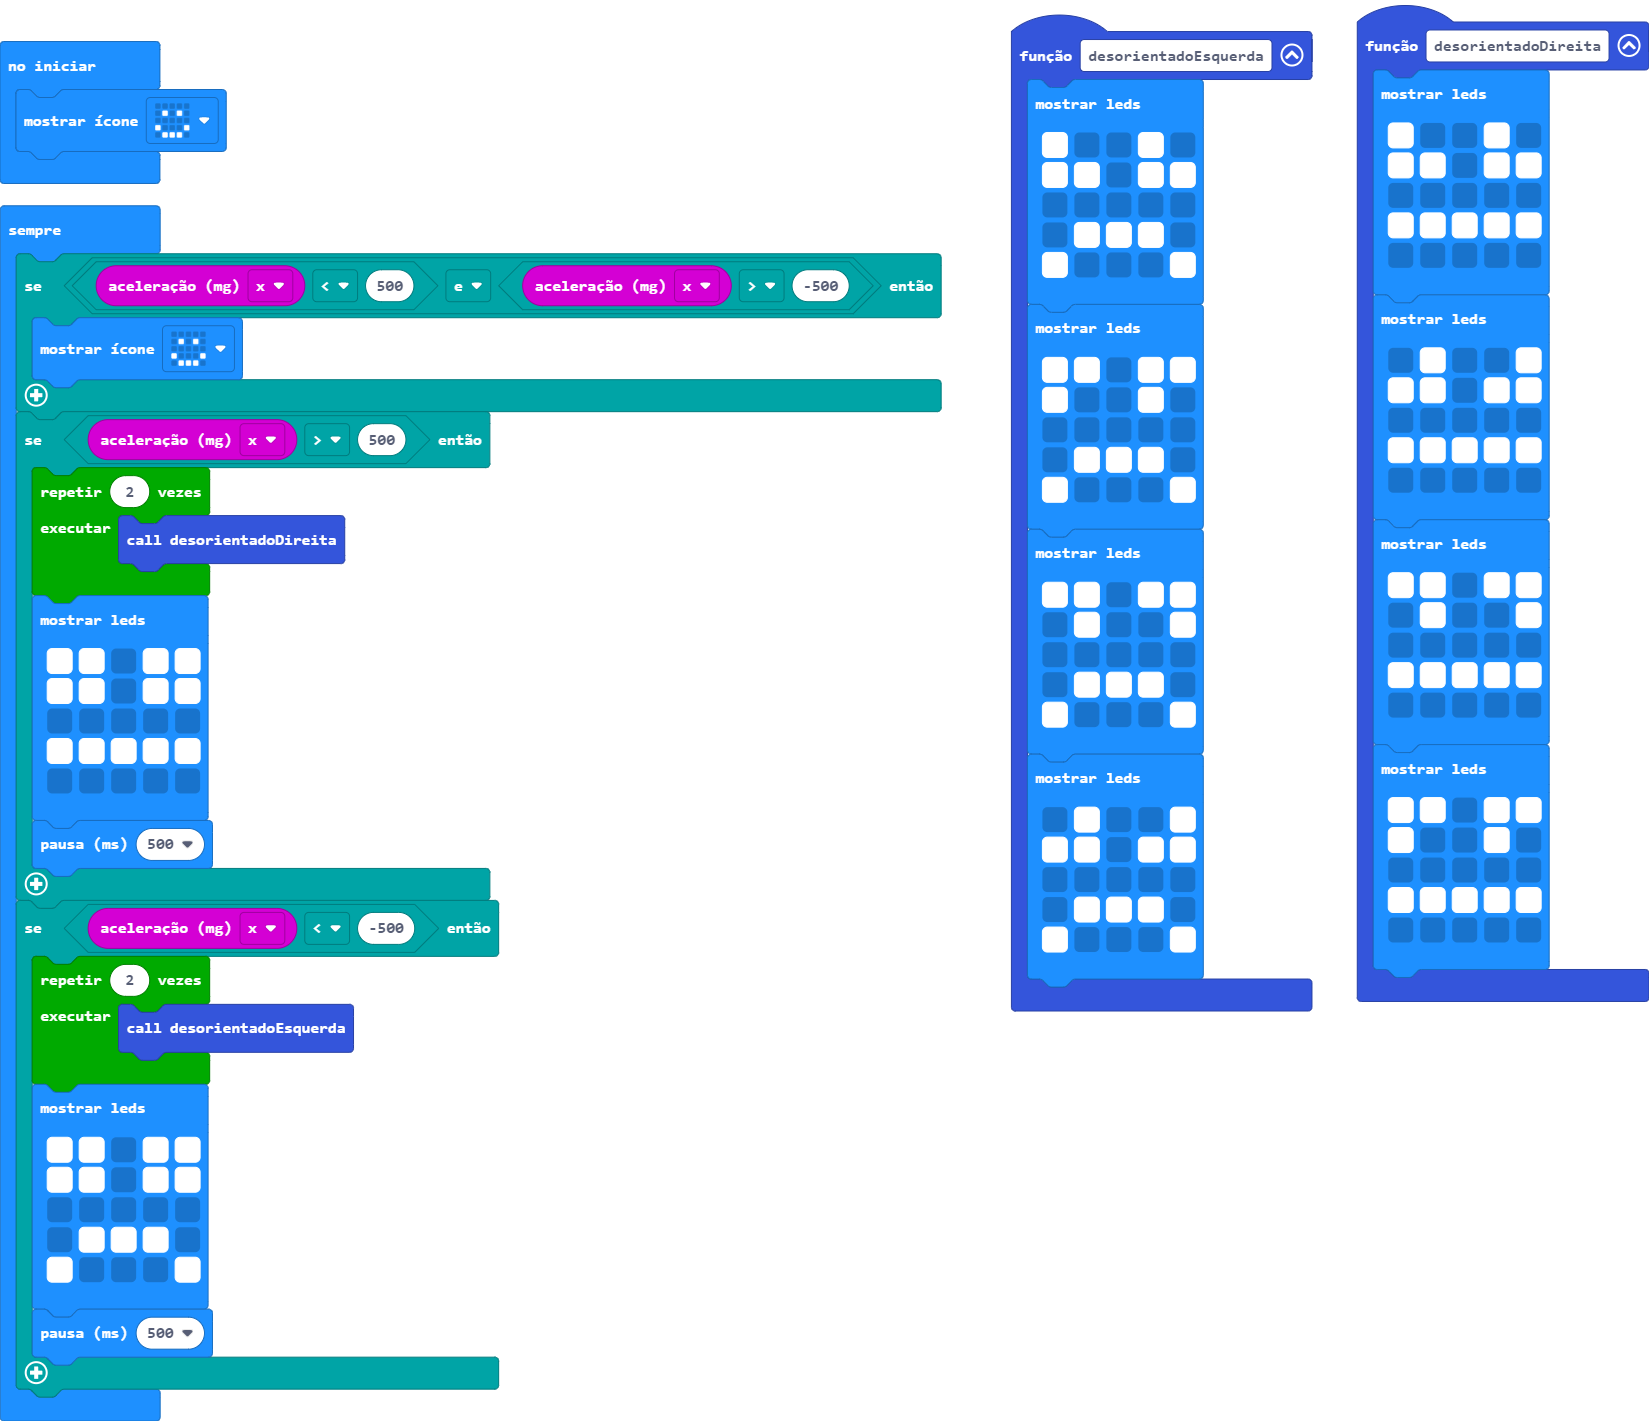
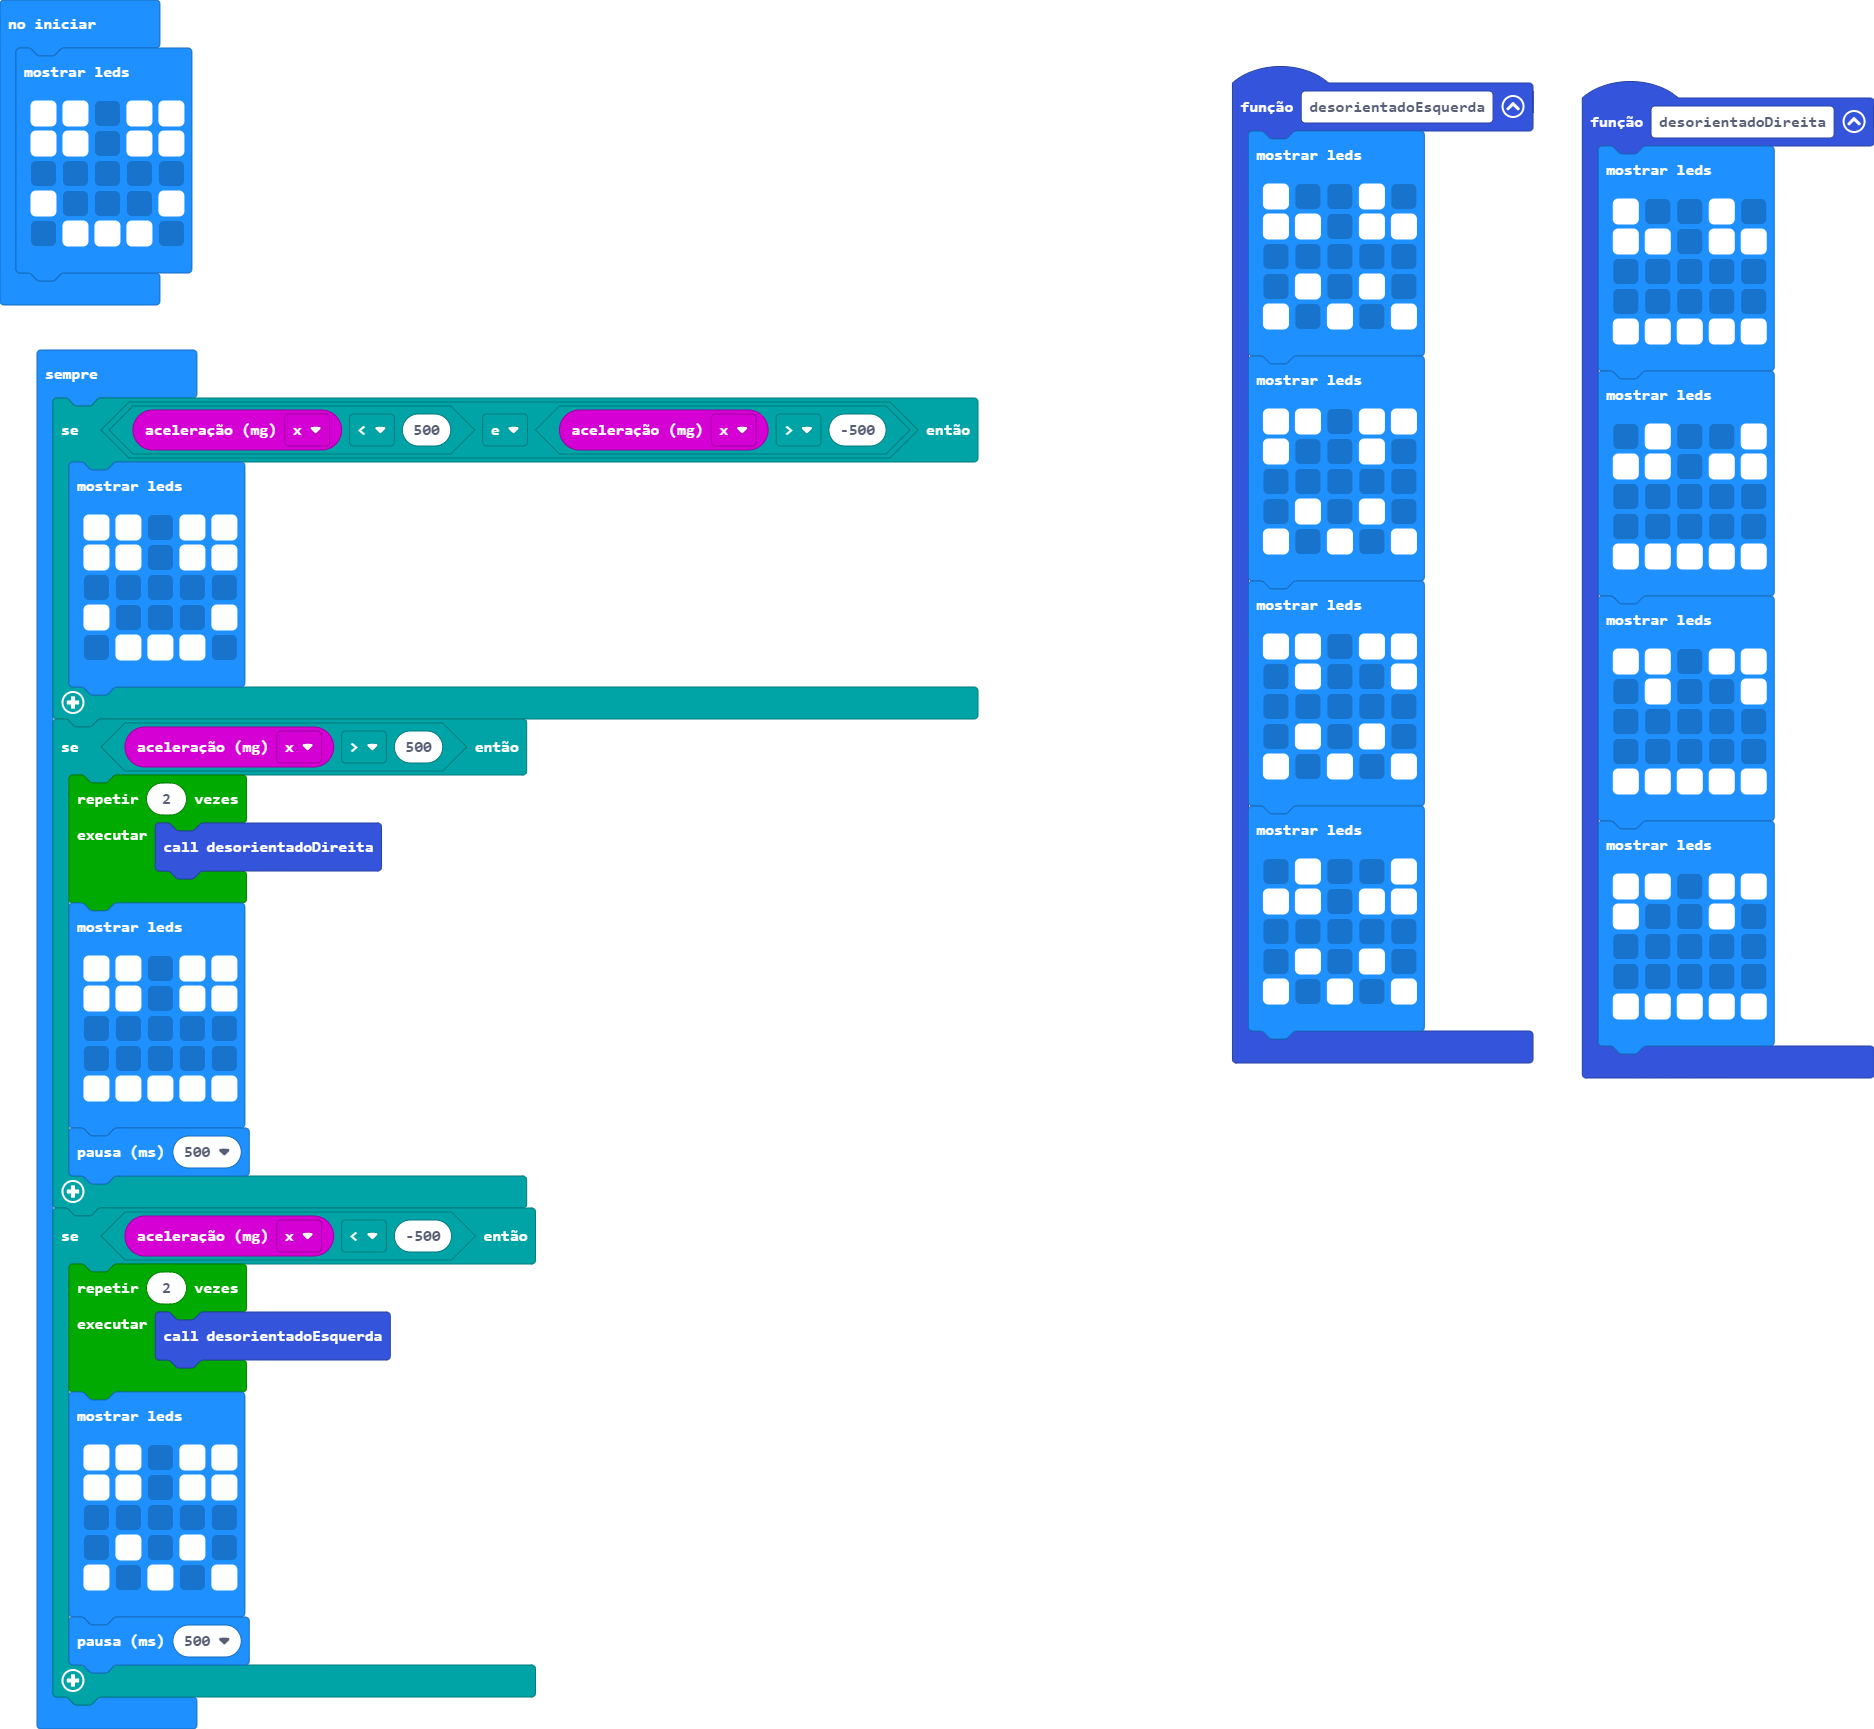
Update main.blocks, main.ts

diff --git a/main.ts b/main.ts
@@ -3,29 +3,29 @@ function desorientadoEsquerda () {
         # . . # .
         # # . # #
         . . . . .
-        . # # # .
-        # . . . #
+        . # . # .
+        # . # . #
         `)
     basic.showLeds(`
         # # . # #
         # . . # .
         . . . . .
-        . # # # .
-        # . . . #
+        . # . # .
+        # . # . #
         `)
     basic.showLeds(`
         # # . # #
         . # . . #
         . . . . .
-        . # # # .
-        # . . . #
+        . # . # .
+        # . # . #
         `)
     basic.showLeds(`
         . # . . #
         # # . # #
         . . . . .
-        . # # # .
-        # . . . #
+        . # . # .
+        # . # . #
         `)
 }
 function desorientadoDireita () {
@@ -33,35 +33,47 @@ function desorientadoDireita () {
         # . . # .
         # # . # #
         . . . . .
-        # # # # #
         . . . . .
+        # # # # #
         `)
     basic.showLeds(`
         . # . . #
         # # . # #
         . . . . .
-        # # # # #
         . . . . .
+        # # # # #
         `)
     basic.showLeds(`
         # # . # #
         . # . . #
         . . . . .
-        # # # # #
         . . . . .
+        # # # # #
         `)
     basic.showLeds(`
         # # . # #
         # . . # .
         . . . . .
-        # # # # #
         . . . . .
+        # # # # #
         `)
 }
-basic.showIcon(IconNames.Happy)
+basic.showLeds(`
+    # # . # #
+    # # . # #
+    . . . . .
+    # . . . #
+    . # # # .
+    `)
 basic.forever(function () {
     if (input.acceleration(Dimension.X) < 500 && input.acceleration(Dimension.X) > -500) {
-        basic.showIcon(IconNames.Happy)
+        basic.showLeds(`
+            # # . # #
+            # # . # #
+            . . . . .
+            # . . . #
+            . # # # .
+            `)
     }
     if (input.acceleration(Dimension.X) > 500) {
         for (let index = 0; index < 2; index++) {
@@ -71,8 +83,8 @@ basic.forever(function () {
             # # . # #
             # # . # #
             . . . . .
-            # # # # #
             . . . . .
+            # # # # #
             `)
         basic.pause(500)
     }
@@ -84,8 +96,8 @@ basic.forever(function () {
             # # . # #
             # # . # #
             . . . . .
-            . # # # .
-            # . . . #
+            . # . # .
+            # . # . #
             `)
         basic.pause(500)
     }
